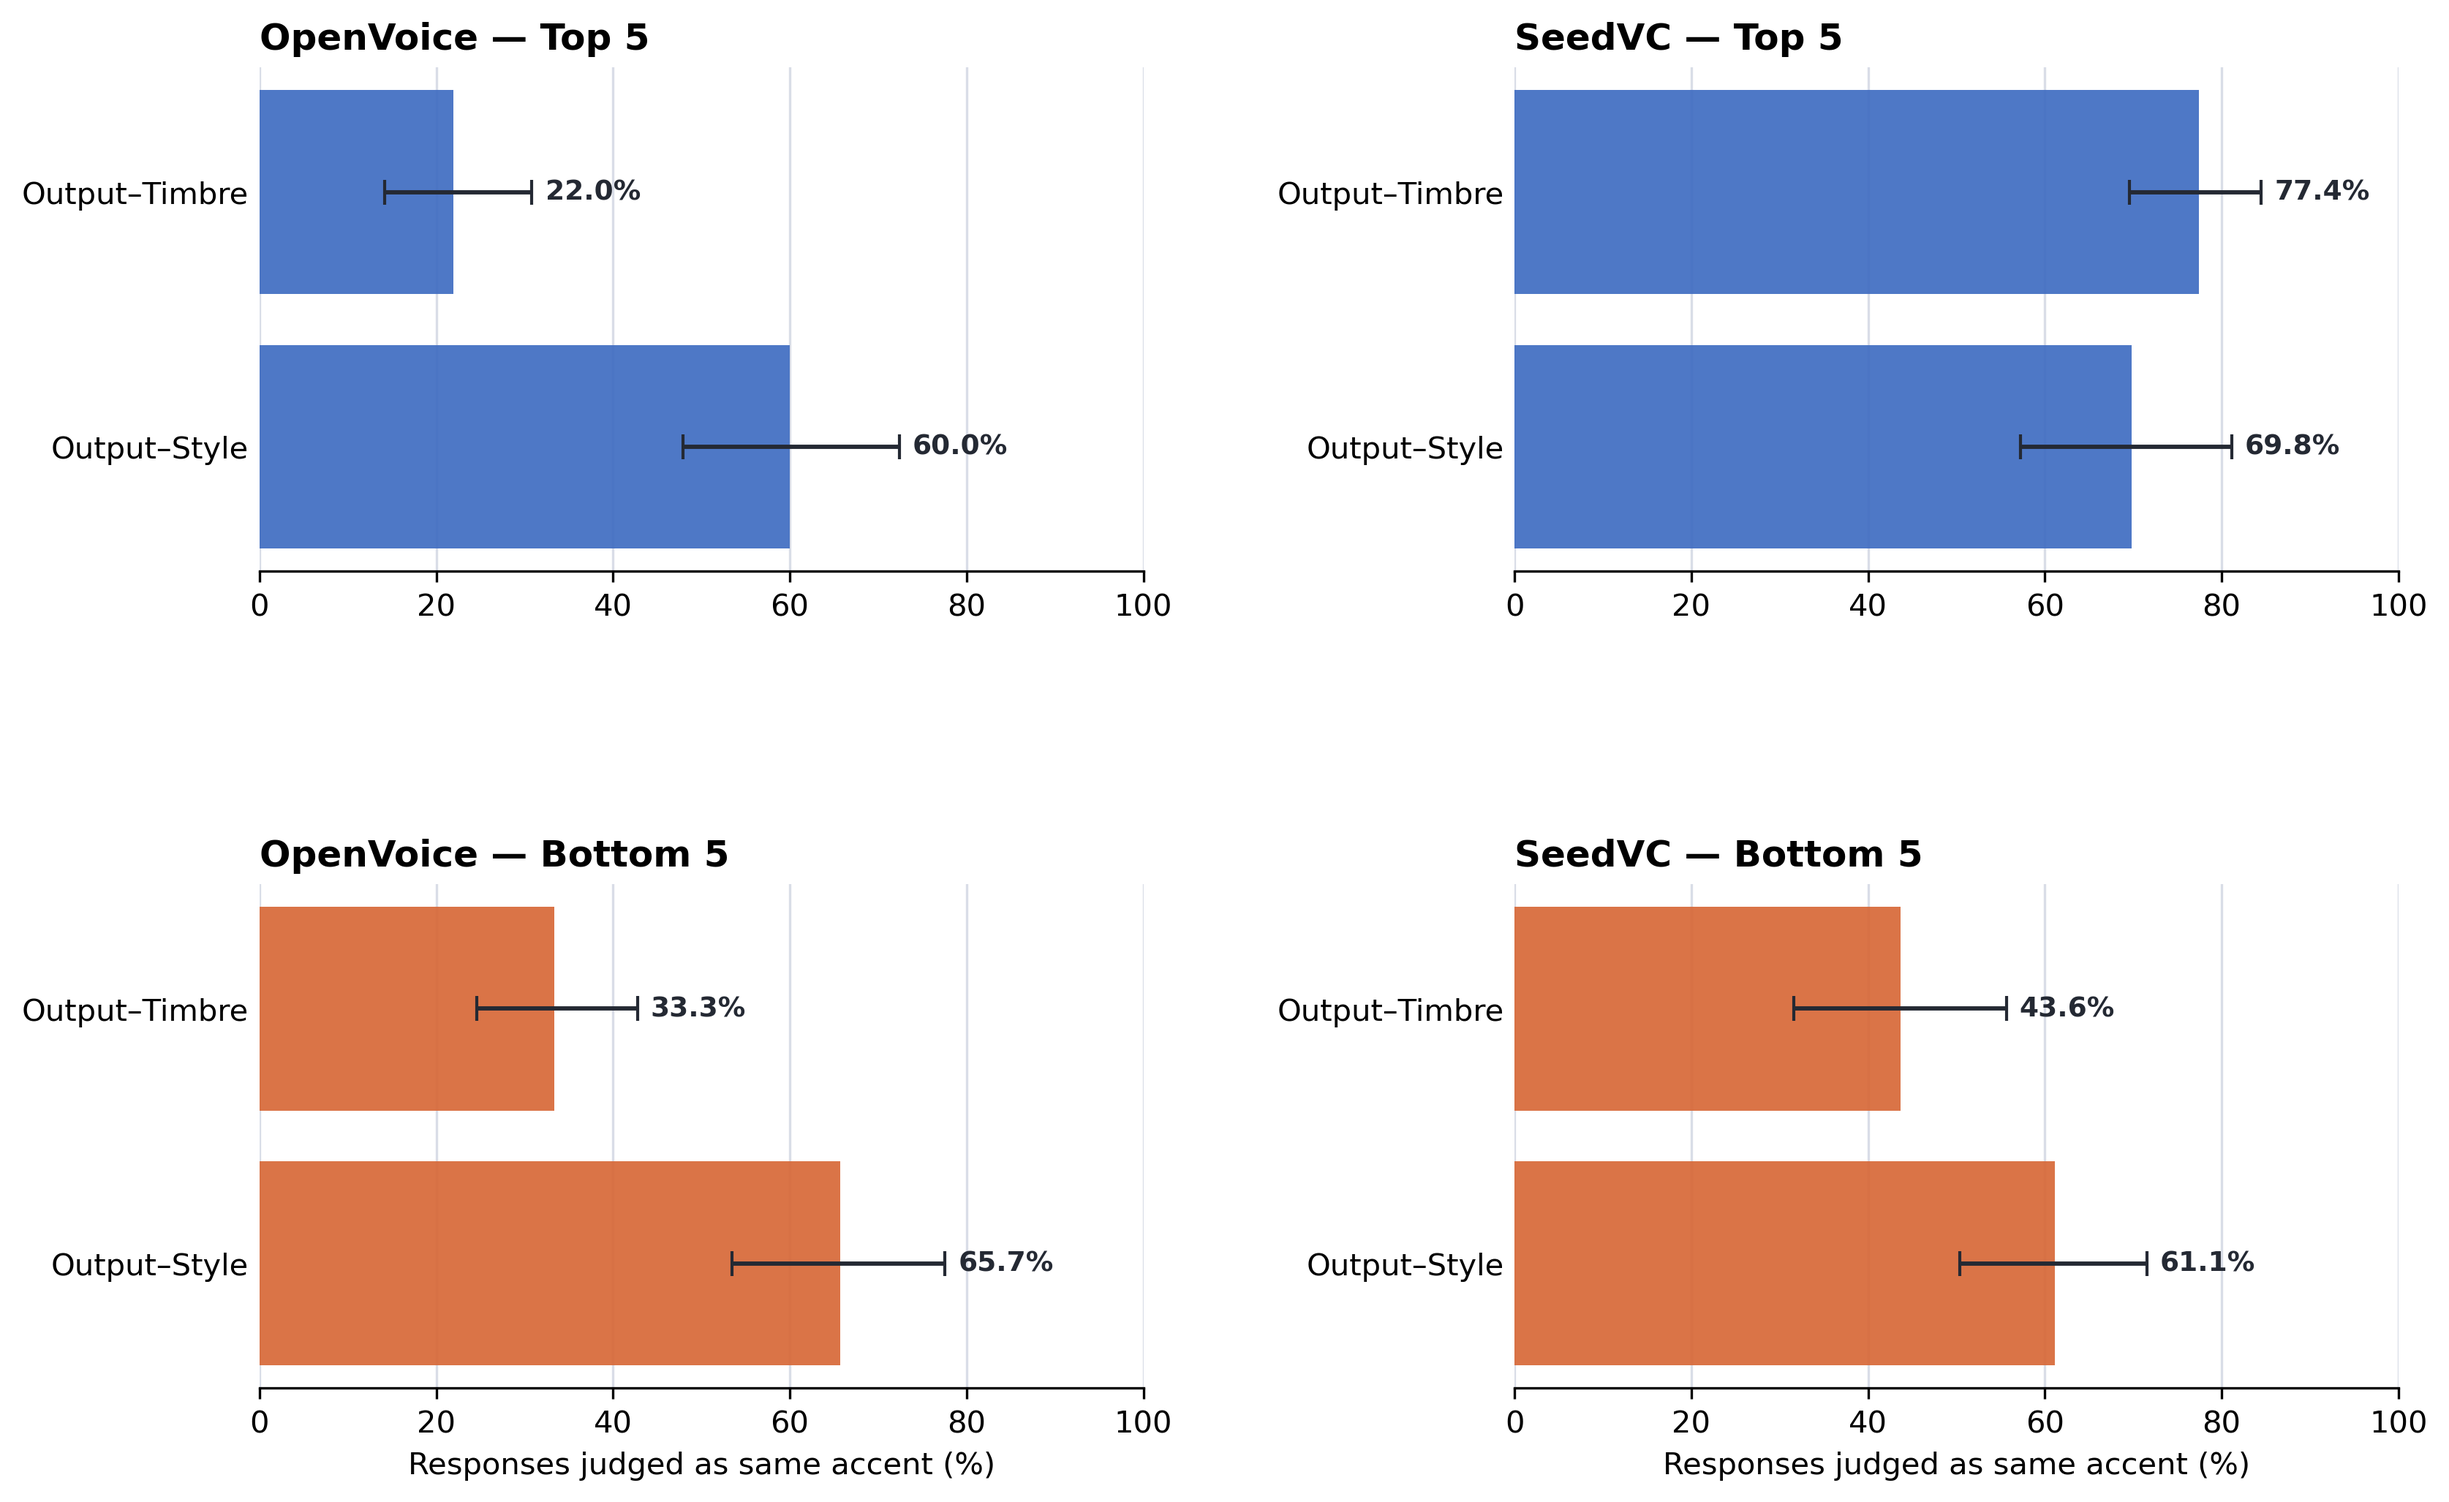
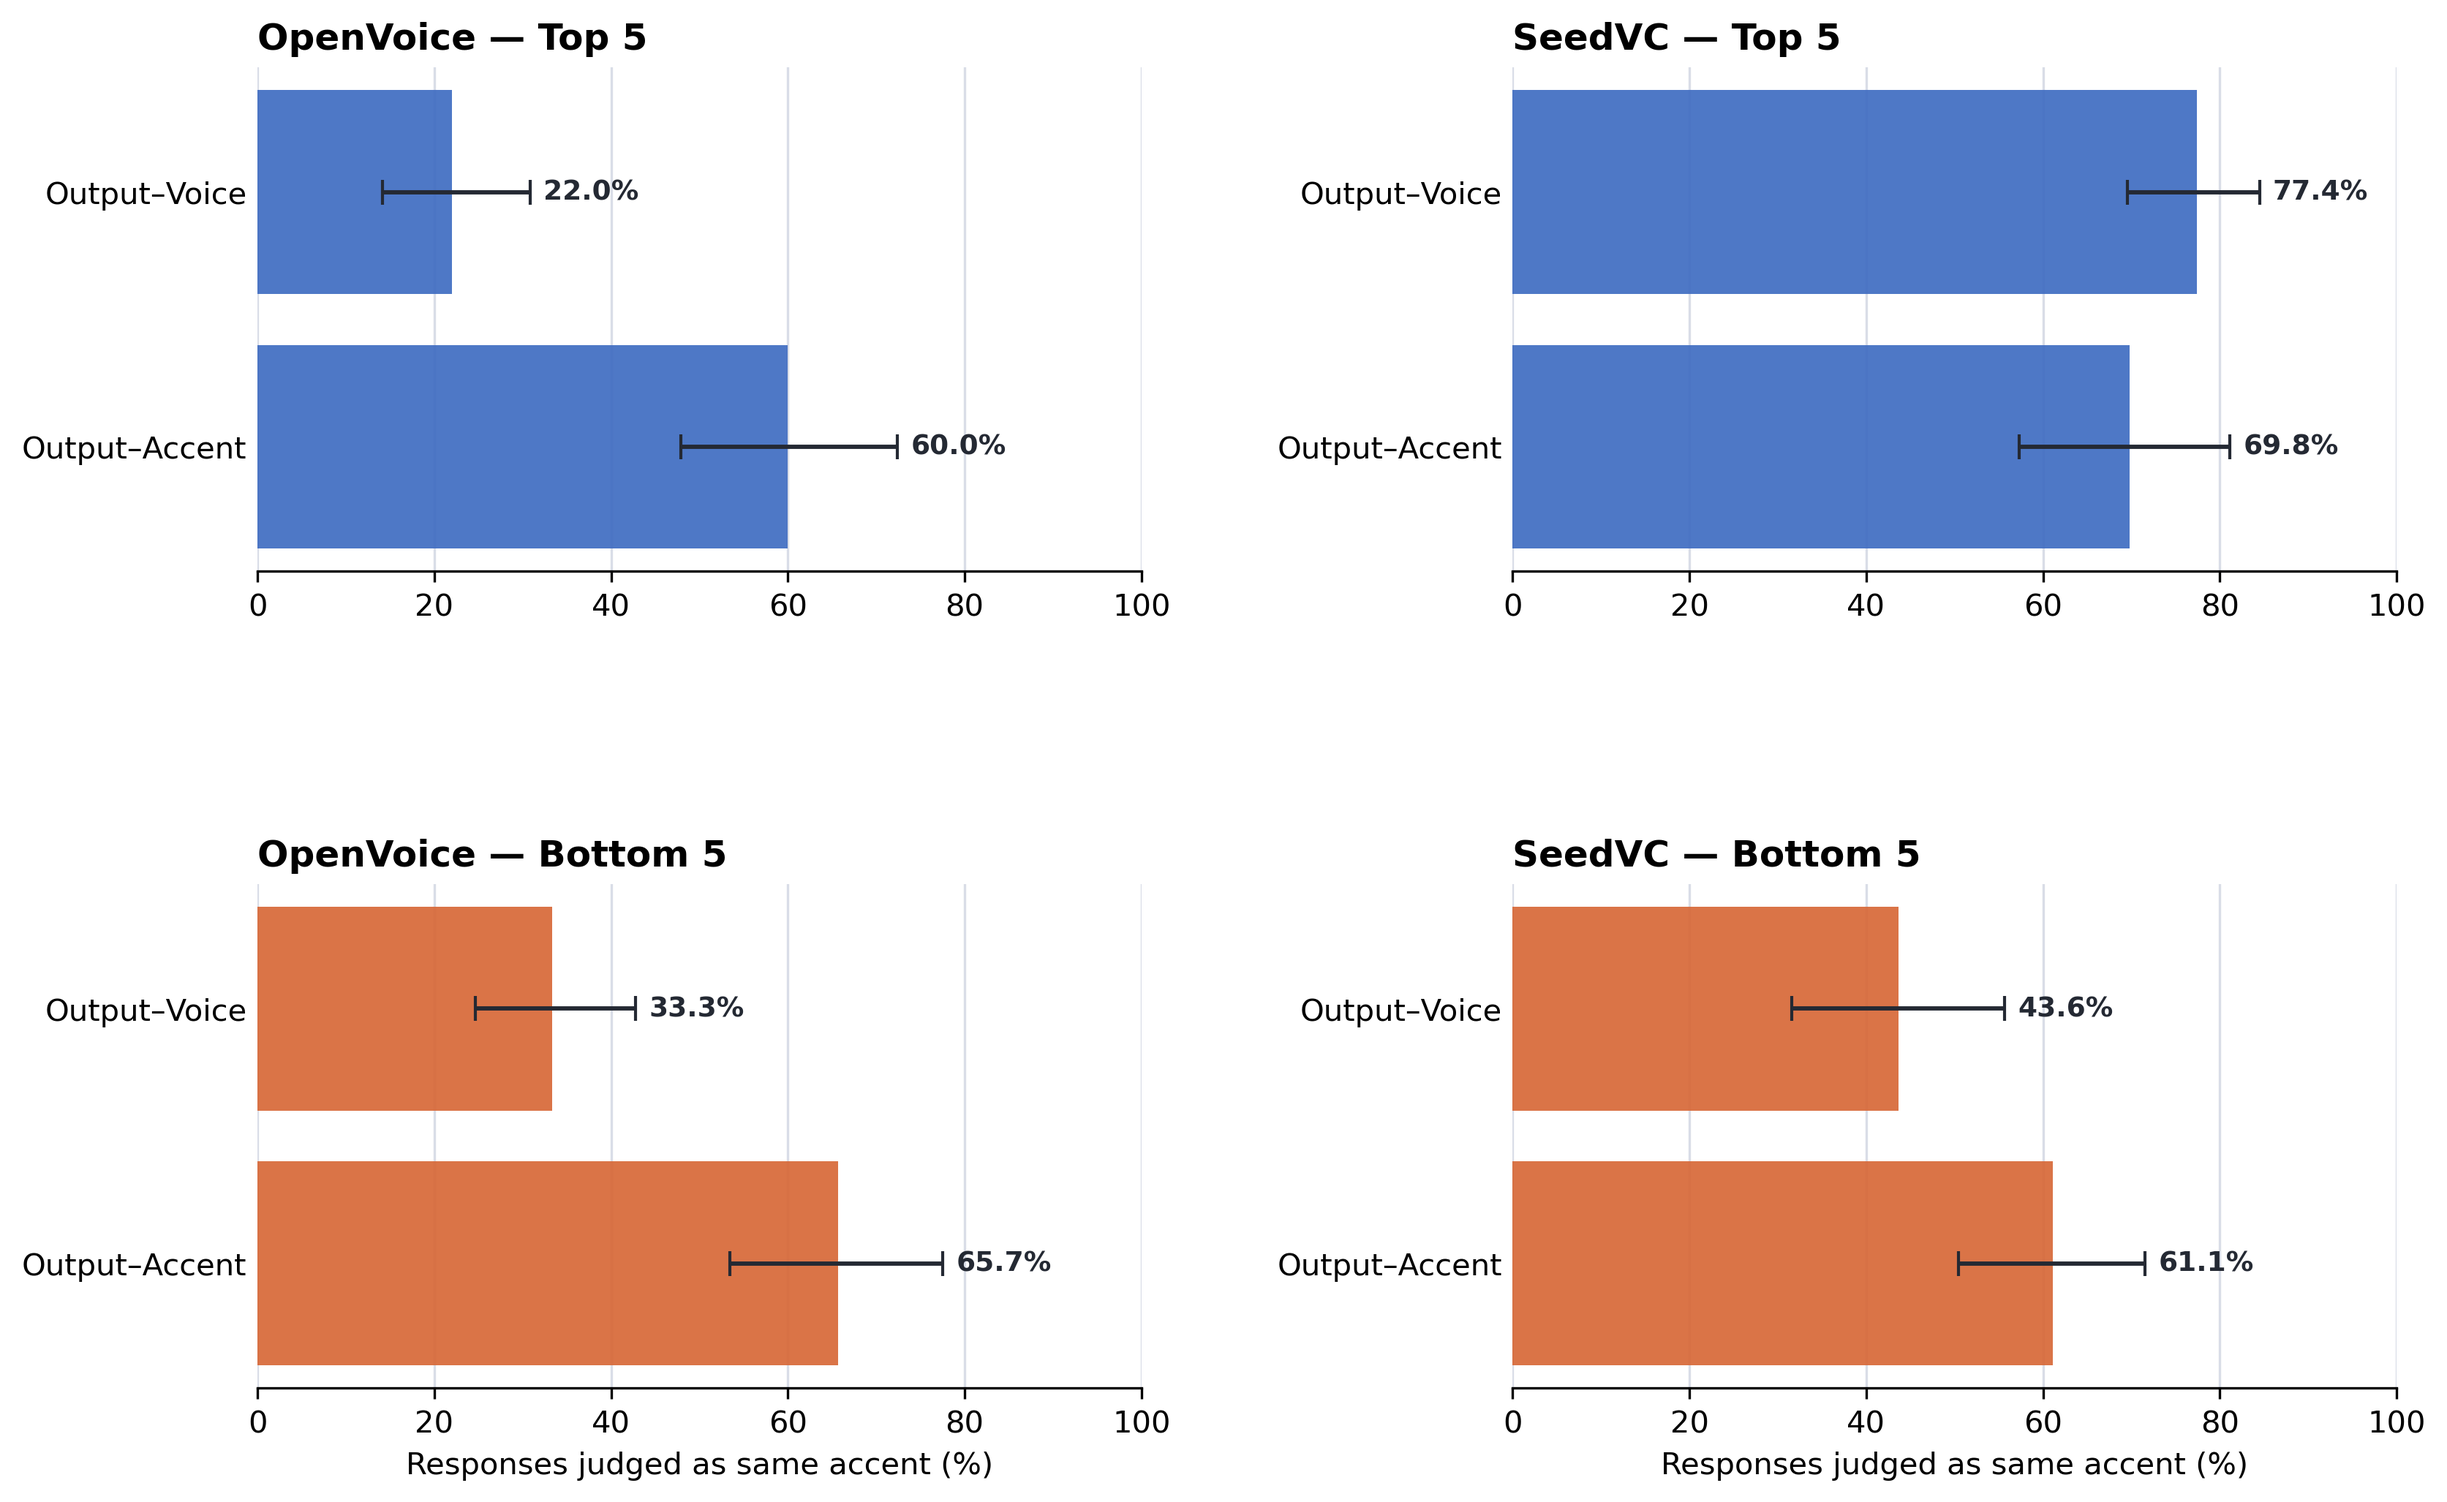
figures

diff --git a/experiment/perceptual_analysis/speaker_identity_analysis.py b/experiment/perceptual_analysis/speaker_identity_analysis.py
@@ -6,12 +6,12 @@ import pandas as pd
 
 
 CONDITION_LABELS = {
-    "output_vs_timbreRef": "Output–Timbre",
-    "output_vs_sourceRef": "Output–Style",
-    "timbreRef_vs_sourceRef": "Timbre–Style",
-    "timbreRef_vs_timbreRef": "Timbre–Timbre (Same Speaker)",
-    "sourceRef_vs_sourceRef": "Style–Style (Same Speaker)",
-    "sourceRef_vs_sourceRef_cross": "Style–Style (Different Speakers)",
+    "output_vs_timbreRef": "Output–Voice",
+    "output_vs_sourceRef": "Output–Accent",
+    "timbreRef_vs_sourceRef": "Voice–Accent",
+    "timbreRef_vs_timbreRef": "Voice–Voice (Same Speaker)",
+    "sourceRef_vs_sourceRef": "Accent–Accent (Same Speaker)",
+    "sourceRef_vs_sourceRef_cross": "Accent–Accent (Different Speakers)",
 }
 
 OUTPUT_CONDITIONS = ["output_vs_timbreRef", "output_vs_sourceRef"]

diff --git a/experiment/perceptual_analysis/speaker_accent_model_notes.md b/experiment/perceptual_analysis/speaker_accent_model_notes.md
@@ -1,0 +1,60 @@
+# Accent experiment model
+
+Run `Rscript experiment/perceptual_analysis/speaker_accent_mixed_model.R` from
+the repository root. The script prints two equivalent model summaries.
+
+The outcome remains a binary "same accent" response. Output-Style in the data
+is Output-Accent in the write-up; Output-Timbre is Output-Voice.
+`accent_vs_voice` is +0.5 for Output-Accent and -0.5 for Output-Voice.
+
+The first parameterization is:
+
+```r
+same_accent ~ 0 + model_tier + model_tier:accent_vs_voice +
+    (1 + accent_vs_voice | participant) + (1 | item)
+```
+
+Each `model_tier:accent_vs_voice` coefficient tests the Accent-minus-Voice
+difference in conditional log odds for that model and ranking group. Positive
+values indicate the intended direction. The four `model_tier` intercepts are
+midpoints of the two trial types' conditional log odds, not performance scores.
+
+The second summary expresses the same fit using SeedVC's Accent-minus-Voice
+gap and OpenVoice's additional gap within each tier. Its
+`tier:openvoice_accent_vs_voice` coefficients directly test whether OpenVoice
+has a larger gap than SeedVC. These are log-odds differences, not percentage
+point differences. Both summaries retain all eight fixed-effect parameters and
+participant random intercepts and trial-type slopes, plus recording random
+intercepts. The identity analysis additionally retains recording slopes.
+
+## Results on the saved data
+
+| Summary coefficient interpreted | Beta | Unadjusted p |
+| --- | ---: | ---: |
+| OpenVoice bottom 5: Accent minus Voice | 2.4168 | 0.0000168 |
+| OpenVoice top 5: Accent minus Voice | 2.6293 | 0.0000040 |
+| SeedVC bottom 5: Accent minus Voice | 1.2819 | 0.0224 |
+| SeedVC top 5: Accent minus Voice | 0.1547 | 0.7966 |
+| Bottom 5: OpenVoice gap minus SeedVC gap | 1.1349 | 0.1457 |
+| Top 5: OpenVoice gap minus SeedVC gap | 2.4746 | 0.00242 |
+
+The recording-intercept-only structure was restored after the model with
+recording slopes produced a singular fit (recording intercept/slope correlation
+-1). The restored fit runs without convergence warnings and is nonsingular;
+AIC is 1084.9, with 985 observations, 100 participants, and 20 recordings.
+Centered participant slope coding is equivalent to the earlier factor coding;
+the reported results are restored to rounding precision. These checks are not
+a full model diagnostic assessment.
+
+The p-values are the unadjusted, two-sided Wald p-values from `summary()`.
+Reparameterizing does not remove multiple-testing considerations; these tests
+were selected after inspecting the data and should be described transparently.
+
+A positive gap tests relative separation. It does not establish both an
+absolutely high Output-Accent probability and an absolutely low Output-Voice
+probability. Those claims require specified thresholds and separate tests.
+A nonsignificant gap also does not establish equivalence between trial types.
+Inference concerns the selected top/bottom recordings, not all model outputs.
+
+The binomial mixed-model fitting interface is documented in
+[lme4's glmer documentation](https://lme4.github.io/lme4/reference/glmer.html).

diff --git a/experiment/perceptual_analysis/speaker_identity_model_notes.md b/experiment/perceptual_analysis/speaker_identity_model_notes.md
@@ -1,0 +1,36 @@
+# Speaker identity model
+
+Run `Rscript experiment/perceptual_analysis/speaker_identity_mixed_model.R`.
+Random slopes now use the centered numeric `voice_vs_accent` predictor, an
+equivalent coding that preserves the fitted results.
+The script prints three equivalent parameterizations of the same binomial
+logistic mixed model. All retain eight fixed-effect parameters and random
+intercepts and trial-type slopes for both participants and recordings.
+
+`voice_vs_accent` is +0.5 for Output-Timbre (Output-Voice in the write-up) and
+-0.5 for Output-Style (Output-Accent). The first summary gives a separate
+Voice-minus-Accent log-odds difference for each model/tier. The second directly
+tests SeedVC's gap minus OpenVoice's gap within each tier. The third tests
+SeedVC minus OpenVoice within each tier and trial type.
+
+| Comparison | Beta | Unadjusted p |
+| --- | ---: | ---: |
+| OpenVoice bottom 5: Voice minus Accent | 2.8384 | 0.0000175 |
+| OpenVoice top 5: Voice minus Accent | 1.9539 | 0.00264 |
+| SeedVC bottom 5: Voice minus Accent | 3.6291 | 0.0000000583 |
+| SeedVC top 5: Voice minus Accent | 6.2707 | < 0.000001 |
+| Bottom 5: SeedVC gap minus OpenVoice gap | 0.7907 | 0.39519 |
+| Top 5: SeedVC gap minus OpenVoice gap | 4.3168 | 0.0000126 |
+| Bottom 5, Output-Voice: SeedVC minus OpenVoice | 1.2930 | 0.07871 |
+| Top 5, Output-Voice: SeedVC minus OpenVoice | 3.2423 | 0.0000500 |
+| Bottom 5, Output-Accent: SeedVC minus OpenVoice | 0.5024 | 0.32117 |
+| Top 5, Output-Accent: SeedVC minus OpenVoice | -1.0745 | 0.03781 |
+
+1851 responses, 100 participants, 20 recordings; AIC 1710.0. Fits converged
+without singularity. This is not a full model diagnostic assessment.
+
+All p-values are unadjusted two-sided Wald tests from summary(); presenting
+comparisons as coefficients does not remove multiple-testing considerations.
+The comparisons were selected after inspecting the data. Positive gaps test
+relative separation, not absolute high/low probability thresholds. Conclusions
+concern these selected top/bottom recordings rather than all model outputs.
